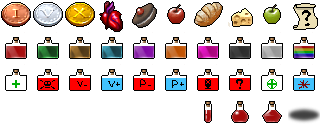
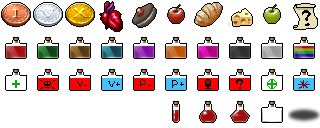
ADD Player drops an empty bottle while drinking

diff --git a/src/PlayerEntity.cpp b/src/PlayerEntity.cpp
@@ -2245,7 +2245,10 @@ void PlayerEntity::consume(enumItemType item)
 
   SpriteEntity* usedItem = new SpriteEntity(ImageManager::getInstance().getImage(IMAGE_ITEMS), x, y, 32, 32);
   usedItem->setImagesProLine(10);
-  usedItem->setFrame((int)item);
+  if (item == ItemScrollRevelation)
+    usedItem->setFrame((int)item);
+  else
+    usedItem->setFrame(38);
   usedItem->setFading(true);
   usedItem->setZ(y - 100);
   usedItem->setLifetime(0.7f);
